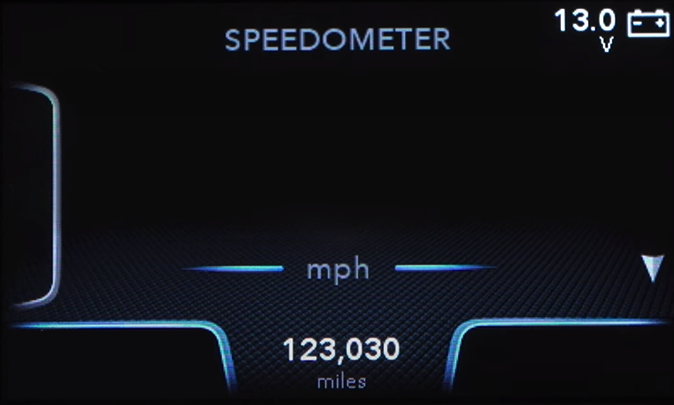
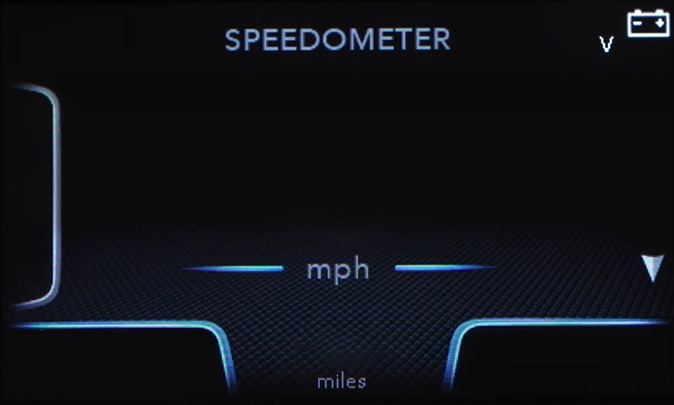
Battery voltage display

Changed region(s): [[0.405, 0.8296, 0.592, 0.9185], [0.8101, 0.0, 0.9347, 0.0889]]

diff --git a/dashboard.js b/dashboard.js
@@ -178,7 +178,7 @@ Funbit.Ets.Telemetry.Dashboard.prototype.initialize = function (skinConfig, util
             // convert kg to t
             data.trailer.mass = (data.trailer.mass / 1000.0) + 't';
             // format odometer data as: 00000.0
-            data.truck.odometer = utils.formatFloat(data.truck.odometer, 1);
+            data.truck.odometer = utils.formatFloat(data.truck.odometer, 3);
             // convert gear to readable format
             data.truck.gear = data.truck.gear > 0 ? 'D' + data.truck.gear : (data.truck.gear < 0 ? 'R' : 'N');
             // convert rpm to rpm * 100
@@ -186,6 +186,8 @@ Funbit.Ets.Telemetry.Dashboard.prototype.initialize = function (skinConfig, util
             // return changed data to the core for rendering
 
             data.truck.cruiseControlSpeed = parseInt(data.truck.cruiseControlSpeed);
+            data.truck.batteryVoltage = utils.formatFloat(data.truck.batteryVoltage, 1);
+
 
             return data;
         };
@@ -223,7 +225,7 @@ Funbit.Ets.Telemetry.Dashboard.prototype.initialize = function (skinConfig, util
             dashIllumination(hour, min, brightValue, variation);
             retarderDashLight(data.truck.retarderBrake);
             gearMode(data.truck.gear);
-            console.log(data.truck.odometer);
+            console.log(data.truck.batteryVoltage);
             cruiseControlSpeed(data.truck.cruiseControlSpeed, data.truck.cruiseControlOn);
         }
     });

diff --git a/dashboard.html b/dashboard.html
@@ -114,15 +114,17 @@
     <div class="truck-electricOn">
         <article id="page1">
             <div id="gear-modes">
-                <span class="gear-mode" id="forward">D</span>
-                <span class="gear-mode" id="neutral">N</span>
-                <span class="gear-mode" id="reverse">R</span>
+                <span class="computer-text-medium gear-mode" id="forward">D</span>
+                <span class="computer-text-medium gear-mode" id="neutral">N</span>
+                <span class="computer-text-medium gear-mode" id="reverse">R</span>
             </div>
-            <div class="gear-mode truck-gear"></div>
+            <div class="computer-text-medium gear-mode truck-gear"></div>
             <div class="truck-speedRounded"></div>
             <div id="cruise-control">
-                <span id="cruise-control-speed"></span>
+                <span class="computer-text-medium" id="cruise-control-speed"></span>
             </div>
+            <div class="computer-text-medium truck-odometer"></div>
+            <div class="computer-text-medium truck-batteryVoltage"></div>
         </article>
 
     </div>

diff --git a/dashboard.css b/dashboard.css
@@ -508,11 +508,6 @@ table{
 
 .gear-mode{
     margin-top: 20%;
-    text-align: center;
-    font-family: "Arial", sans-serif;
-    font-size: 2em;
-    font-weight: 700;
-    /*color: #7190bd;*/
 }
 
 .truck-gear{
@@ -537,14 +532,32 @@ table{
 }
 
 #cruise-control-speed{
-    color: white;
-    font-family: "Arial", sans-serif;
-    font-size: 2em;
-    font-weight: 700;
-    text-align: center;
     margin-left: 21%;
 }
 
 #page1{
     display: flex;
+}
+
+.truck-odometer{
+    position: absolute;
+    width: 28%;
+    height: 10%;
+    margin-left: 36%;
+    margin-top: 49%;
+}
+
+.computer-text-medium{
+    color: white;
+    font-family: "Arial", sans-serif;
+    font-size: 2em;
+    font-weight: 700;
+    text-align: center;
+}
+
+.truck-batteryVoltage{
+    position: absolute;
+    width: 11%;
+    height: 10%;
+    margin-left: 81%;
 }
